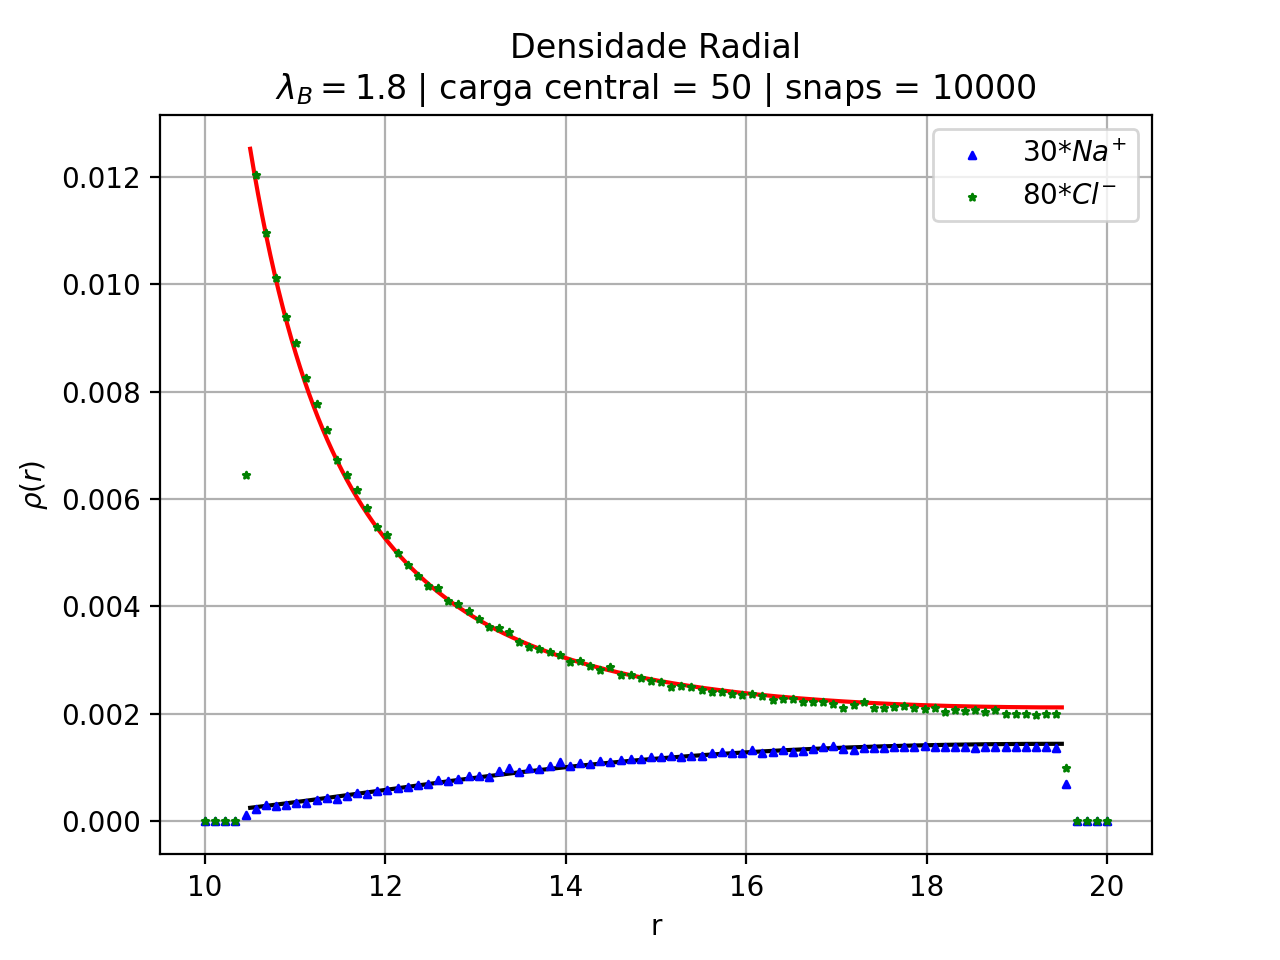
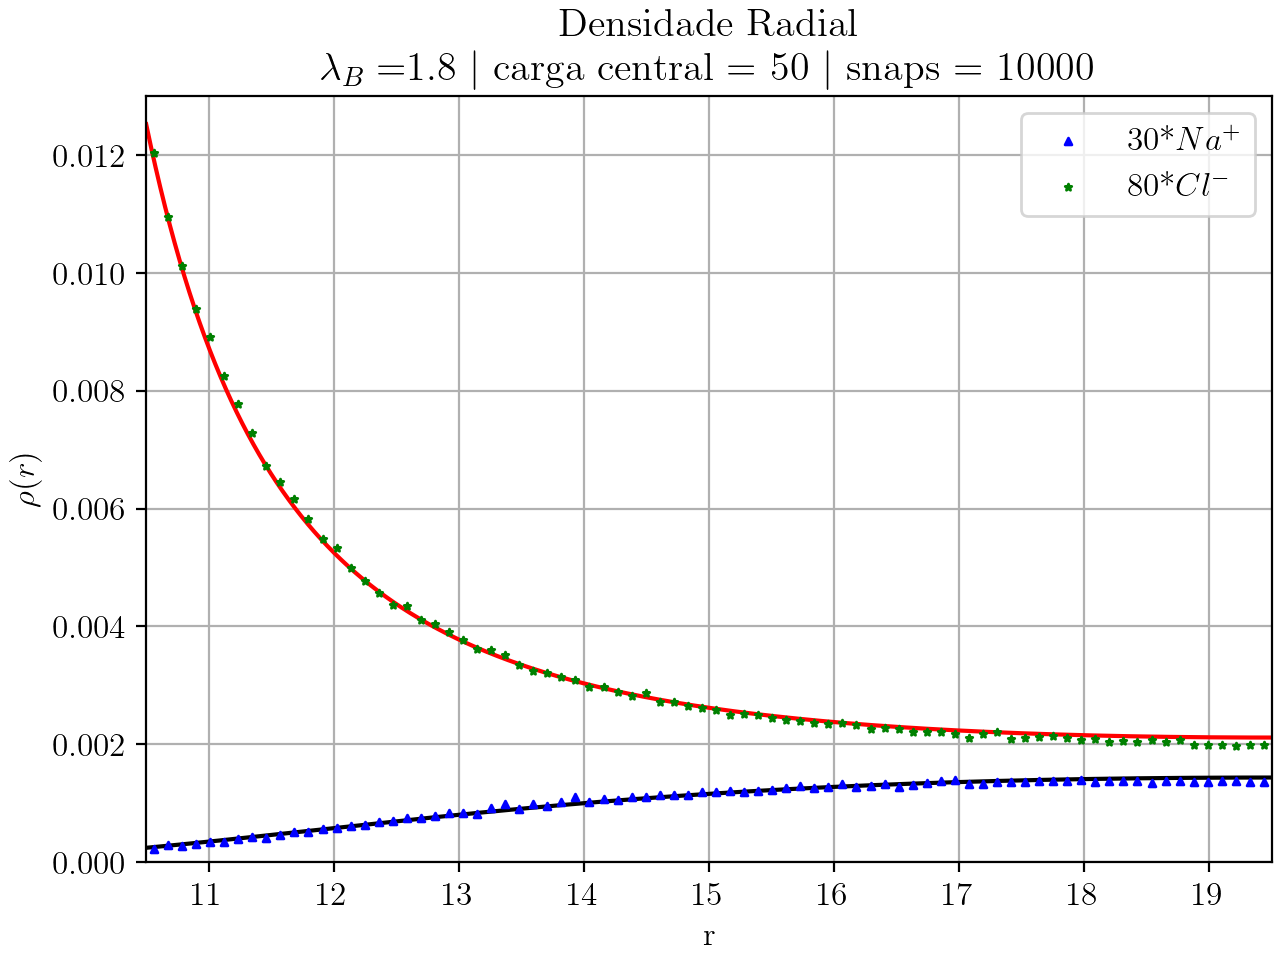
Atualização

diff --git a/projeto/NPBC-shell/densidade-radial.py b/projeto/NPBC-shell/densidade-radial.py
@@ -2,6 +2,7 @@ import matplotlib.pyplot as plt
 import numpy as np
 import os
 import struct
+plt.rcParams.update({"text.usetex" : True, "font.family" : "serif", "font.serif" : ["Computer Modern Serif"], "font.size" : 12})
 
 
 # Definindo a estrutura
@@ -104,6 +105,8 @@ x2, y2 = np.loadtxt('testneg.dat', unpack=True)
 
 xr, delxr = np.linspace(x1[0], x1[-1], len(x1), retstep=True)
 
+fig = plt.figure(layout='constrained')
+
 plt.plot(x1, y1, 'k')
 plt.plot(x2, y2, 'r')
 
@@ -134,9 +137,11 @@ plt.scatter(r, bins1, c='b', s=6, marker='^', label=f'{pos:.0f}*'+r'$Na^{+}$', z
 plt.scatter(r, bins2, c='g', s=6, marker='*', label=f'{neg:.0f}*'+r'$Cl^{-}$', zorder=3)
 plt.xlabel('r')
 plt.ylabel(r'$\rho(r)$')
-plt.title('Densidade Radial\n'+r'$\lambda_{B}=$'+f'{lb:.1f} | carga central = {ccentral} | snaps = {nframes}')
+plt.title('Densidade Radial\n'+r'$\lambda_{B}=$'+f'{lb:.1f} '+r'$\mid$'+f' carga central = {ccentral} '+r'$\mid$'+f' snaps = {nframes}')
 plt.grid()
 plt.legend()
+plt.xlim(10.5, 19.5)
+plt.ylim(0, 0.013)
 plt.savefig(os.path.join(path, 'drad-comp.png'), dpi=200)
 print(f'Número de partículas:\n\tMinhas\tTeoria\nCla+ = {p_pos:.3f}\t{p_pos_t:.3f}\nCl- = {p_neg:.3f}\t{p_neg_t:.3f}')
 

diff --git a/projeto/NPBC-shell/temperatura-radial.py b/projeto/NPBC-shell/temperatura-radial.py
@@ -2,6 +2,7 @@ import matplotlib.pyplot as plt
 import numpy as np
 import os
 import struct
+plt.rcParams.update({"text.usetex" : True, "font.family" : "serif", "font.serif" : ["Computer Modern Serif"], "font.size" : 12})
 
 
 # Definindo a estrutura
@@ -108,10 +109,12 @@ while True:
 		r1 = r1[:-1]
 	else: break
 
+fig = plt.figure(layout='constrained')
+
 plt.plot(r1, binsT1, 'b-+', markersize=4, linewidth=1)
 plt.xlabel('r')
 plt.ylabel(r'$T(r)$')
-plt.title('Temperatura Radial\n'+r'$\lambda_{B}=$'+f'{lb:.1f} | carga central = {ccentral} | snaps = {nframes}')
+plt.title('Temperatura Radial\n'+r'$\lambda_{B}=$'+f'{lb:.1f} '+r'$\mid$'+f' carga central = {ccentral} '+r'$\mid$'+f' snaps = {nframes}')
 plt.grid()
 plt.savefig(os.path.join(path, 'Temp-rad.png'), dpi=200)
 		
